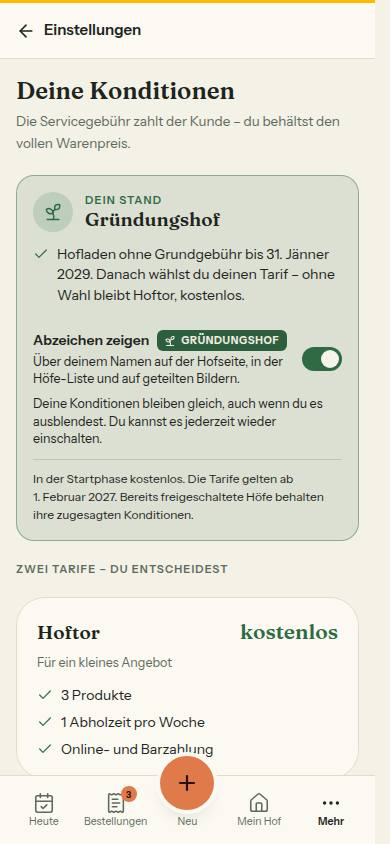
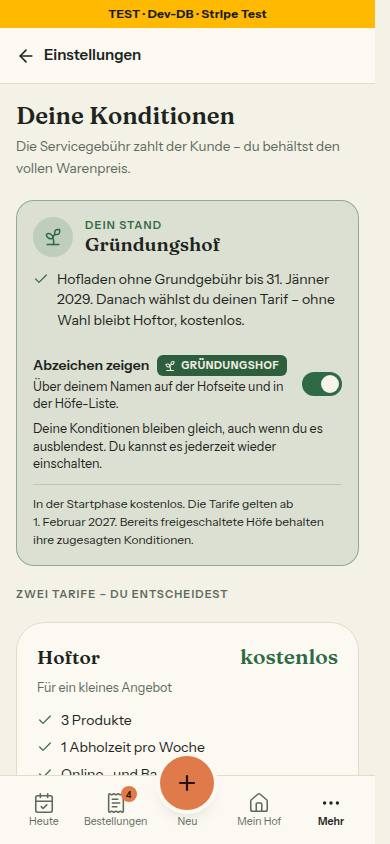
fix: Nr. 116 Runde 1 – Plätze der Einstellung an jeder Zeile, Schalter-Satz ohne Teilen-Bild
Vor dem Festschreiben lassen sich die Plätze schon erhöhen. Die Lader der
Platzvergabe schreiben sie jetzt an jede Zeile (wie gruendungFest), damit
Gründungs-Nachricht, Tarif-Zeile, „Dein Stand“, Admin › Höfe, Finanzen und
setzeGruendungBisAction mit derselben Zahl rechnen. Der Schalter-Satz nennt
das Teilen-Bild erst, wenn es das Etikett zeichnet (Test bindet Satz an Code).
Escape-Folge für das geschützte Leerzeichen wiederhergestellt.

Claude-Session: https://claude.ai/code/session_016mcnK6M2any3pAayV5rccV

diff --git a/src/lib/gruendungshof.ts b/src/lib/gruendungshof.ts
@@ -132,11 +132,24 @@ export type HofFuerPlatz = {
    * Reihenfolge wie vor Nr. 116.
    */
   gruendungFest?: boolean
+  /**
+   * Die Plätze der Einstellung (PlattformEinstellung.gruendungPlaetze) — von
+   * den Ladern an jede Zeile gesetzt wie `gruendungFest`. Vor dem Festschreiben
+   * lassen sich die Plätze schon erhöhen; ohne diese Zahl rechneten Tarif-Zeile,
+   * „Dein Stand“ und Admin › Höfe weiter mit 12, die Gründungs-Nachricht aber
+   * mit der Einstellung. Fehlt sie: der Standard.
+   */
+  gruendungPlaetze?: number
 }
 
 /** Gilt die festgeschriebene Vergabe? Die Lader setzen das Kennzeichen an allen Zeilen gleich. */
 export function vergabeFest(hoefe: readonly HofFuerPlatz[]): boolean {
   return hoefe.some((h) => h.gruendungFest === true)
+}
+
+/** Die Plätze der Einstellung, wie die Lader sie an die Zeilen schreiben — ohne: der Standard (MAX_GRUENDUNGSHOEFE). */
+export function plaetzeDerVergabe(hoefe: readonly HofFuerPlatz[]): number {
+  return hoefe.find((h) => h.gruendungPlaetze !== undefined)?.gruendungPlaetze ?? MAX_GRUENDUNGSHOEFE
 }
 
 /** Die Reihenfolge der Freischaltung: `approvedAt`, dann `createdAt`, dann `id` (siehe gruendungsplaetze). */
@@ -185,15 +198,15 @@ export function gruendungsplatzVon(hofId: string, hoefe: readonly HofFuerPlatz[]
   return gruendungsplaetze(hoefe).get(hofId) ?? null
 }
 
-/** true, wenn der Hof einen der Gründungsplätze belegt (Platz <= `plaetze`, Standard 12). */
-export function istGruendungshof(hofId: string, hoefe: readonly HofFuerPlatz[], plaetze: number = MAX_GRUENDUNGSHOEFE): boolean {
+/** true, wenn der Hof einen der Gründungsplätze belegt (Platz <= `plaetze`, Standard: die Plätze an den Zeilen). */
+export function istGruendungshof(hofId: string, hoefe: readonly HofFuerPlatz[], plaetze: number = plaetzeDerVergabe(hoefe)): boolean {
   const platz = gruendungsplatzVon(hofId, hoefe)
   // Festgeschrieben IST der Platz die Zusage — nie gegen eine Zahl geprüft (die Plätze wachsen nur).
   return platz !== null && (vergabeFest(hoefe) || platz <= plaetze)
 }
 
-/** Wie viele der Plätze vergeben sind — höchstens `plaetze` (Standard MAX_GRUENDUNGSHOEFE); festgeschrieben alle gespeicherten. */
-export function vergebeneGruendungsplaetze(hoefe: readonly HofFuerPlatz[], plaetze: number = MAX_GRUENDUNGSHOEFE): number {
+/** Wie viele der Plätze vergeben sind — höchstens `plaetze` (Standard: die Plätze an den Zeilen); festgeschrieben alle gespeicherten. */
+export function vergebeneGruendungsplaetze(hoefe: readonly HofFuerPlatz[], plaetze: number = plaetzeDerVergabe(hoefe)): number {
   const vergeben = gruendungsplaetze(hoefe).size
   return vergabeFest(hoefe) ? vergeben : Math.min(vergeben, plaetze)
 }
@@ -203,7 +216,7 @@ export function vergebeneGruendungsplaetze(hoefe: readonly HofFuerPlatz[], plaet
  * Für den Bestätigungsdialog. Die Plätze sind eine KONDITIONS-Grenze, keine
  * Zugangsgrenze — Freischalten bleibt in jedem Fall möglich.
  */
-export function bekaemePlatzBeiFreigabe(hoefe: readonly HofFuerPlatz[], plaetze: number = MAX_GRUENDUNGSHOEFE): boolean {
+export function bekaemePlatzBeiFreigabe(hoefe: readonly HofFuerPlatz[], plaetze: number = plaetzeDerVergabe(hoefe)): boolean {
   return vergebeneGruendungsplaetze(hoefe, plaetze) < plaetze
 }
 
@@ -213,8 +226,8 @@ export function bekaemePlatzBeiFreigabe(hoefe: readonly HofFuerPlatz[], plaetze:
 export type HofMitGruendungBis = { id: string; gruendungBis: Date | null }
 
 /**
- * Das wirksame Gründungs-Enddatum eines Hofs: mit Gründungsplatz (Platz ≤ 12)
- * sein eigenes Datum oder der Standard, ohne Platz null — dann gilt die
+ * Das wirksame Gründungs-Enddatum eines Hofs: mit Gründungsplatz (Platz ≤ den
+ * Plätzen an den Zeilen, `plaetzeDerVergabe`) sein eigenes Datum oder der Standard, ohne Platz null — dann gilt die
  * normale Regel. `hoefe` ist die Liste der Platzvergabe; steht der Hof nicht
  * darin, hat er keinen Platz.
  */
@@ -681,7 +694,7 @@ export const GRUENDUNG_TEXT = {
   registrieren: (g: GruendungSeiten, platz: number): GruendungSatzTeile => ({
     vor: 'Du wärst voraussichtlich ',
     // „Nr." und Zahl bleiben in einer Zeile (geschütztes Leerzeichen) — am Handy stand die Zahl sonst allein.
-    betont: gruendungshofLabel(platz).replace('Nr. ', 'Nr. '),
+    betont: gruendungshofLabel(platz).replace('Nr. ', 'Nr.\u00a0'),
     nach:
       g.art === 'bisher'
         ? ` – ${HOFLADEN.name} ${KOSTENLOS} bis ${gruendungTagLang(g.bisTag)}. Die Zusage kommt mit der Freischaltung.`
@@ -753,7 +766,7 @@ export const ABZEICHEN_TEXT = {
   mehrHref: '/fuer-hoefe',
   /** Konditionen und Tarif, Block „Dein Stand“. */
   schalter: 'Abzeichen zeigen',
-  schalterZeile: 'Über deinem Namen auf der Hofseite, in der Höfe-Liste und auf geteilten Bildern.',
+  schalterZeile: 'Über deinem Namen auf der Hofseite und in der Höfe-Liste.',
   schalterSatz: 'Deine Konditionen bleiben gleich, auch wenn du es ausblendest. Du kannst es jederzeit wieder einschalten.',
   fehler: 'Wir konnten das Abzeichen gerade nicht umstellen. Lade die Seite neu und versuch es noch einmal.',
 } as const

diff --git a/src/server/queries/admin.ts b/src/server/queries/admin.ts
@@ -107,7 +107,7 @@ export type AdminFarmRow = {
 /**
  * Die Einstellung der Gründungsplätze frisch aus der Zeile, nie aus dem Cache
  * (Register K2, Änderung Nr. 116) — die Lader der Platzvergabe setzen daraus
- * `gruendungFest` an jede Zeile. Ohne Zeile: die Standardwerte (nicht festgeschrieben).
+ * `gruendungFest` und `gruendungPlaetze` an jede Zeile. Ohne Zeile: die Standardwerte (nicht festgeschrieben).
  */
 export async function leseGruendungEinstellung(db: Pick<Prisma.TransactionClient, 'plattformEinstellung'>): Promise<GruendungEinstellung> {
   const zeile = await db.plattformEinstellung.findUnique({ where: { id: PLATTFORM_EINSTELLUNG_ID }, select: PLATTFORM_EINSTELLUNG_SELECT })
@@ -239,8 +239,8 @@ export async function getAdminFarms(
   ])
   const fest = einstellung.festAm !== null
 
-  // Die Platzvergabe liest das Kennzeichen an jeder Zeile (vergabeFest) — dieselbe Liste wie bisher.
-  const platzListe = farms.map((f) => ({ ...f, gruendungFest: fest }))
+  // Die Platzvergabe liest Kennzeichen und Plätze an jeder Zeile (vergabeFest, plaetzeDerVergabe) — dieselbe Liste wie bisher.
+  const platzListe = farms.map((f) => ({ ...f, gruendungFest: fest, gruendungPlaetze: einstellung.plaetze }))
   const rows = platzListe.map((f) => ({
     id: f.id,
     name: f.name,
@@ -308,7 +308,7 @@ const HOF_FUER_GRUENDUNG = {
 } satisfies Prisma.FarmSelect
 
 /** Ein Hof der Platzvergabe samt seinem Gründungs-Ende (HofFuerPlatz plus Inhaber und Spalte) und der geltenden Vergabe. */
-export type HofFuerGruendung = Prisma.FarmGetPayload<{ select: typeof HOF_FUER_GRUENDUNG }> & { gruendungFest: boolean }
+export type HofFuerGruendung = Prisma.FarmGetPayload<{ select: typeof HOF_FUER_GRUENDUNG }> & { gruendungFest: boolean; gruendungPlaetze: number }
 
 /** Der Lader braucht Höfe und die Zeile der Einstellung — im Transaktions-Client wie außerhalb. */
 type PlatzDb = Pick<Prisma.TransactionClient, 'farm' | 'plattformEinstellung'>
@@ -333,9 +333,12 @@ const IN_DER_VERGABE = { OR: [{ approvedAt: { not: null }, archivedAt: null }, {
  */
 export async function ladeHoefeFuerGruendung(db: PlatzDb = prisma): Promise<HofFuerGruendung[]> {
   // Nacheinander, nie Promise.all: In einer Transaktion läuft eine Abfrage zur Zeit (CODING_STANDARDS §4).
-  const fest = (await leseGruendungEinstellung(db)).festAm !== null
+  const einstellung = await leseGruendungEinstellung(db)
+  const fest = einstellung.festAm !== null
   const hoefe = await db.farm.findMany({ where: IN_DER_VERGABE, select: HOF_FUER_GRUENDUNG })
-  return hoefe.map((h) => ({ ...h, gruendungFest: fest }))
+  // Kennzeichen und Plätze an jeder Zeile: So rechnen Tarif-Zeile, „Dein Stand“ und
+  // die Actions mit denselben Plätzen wie die Gründungs-Nachricht (auch vor dem Festschreiben).
+  return hoefe.map((h) => ({ ...h, gruendungFest: fest, gruendungPlaetze: einstellung.plaetze }))
 }
 
 /** Ein Hof für „Zusagen festschreiben“: die Felder der Platzvergabe und der Name für die Liste. */

diff --git a/tests/gruendung-aktion.test.ts b/tests/gruendung-aktion.test.ts
@@ -11,6 +11,8 @@ import {
   GRUENDUNG_TEXT,
   abzeichenBlattAus,
   aktionLaeuft,
+  baueGruendungAnzeige,
+  bestimmeGruendungBis,
   bildeGruendungBis,
   festschreibenBrauchtPlaetze,
   festschreibenListe,
@@ -18,6 +20,7 @@ import {
   freieNummer,
   freischaltHinweis,
   gruendungsplaetze,
+  gruendungsZusageBeiFreigabe,
   istGruendungshof,
   kleinsteFreieNummer,
   seitenZahlen,
@@ -212,6 +215,34 @@ describe('festschreibenListe — einmal, nie kürzer, auch stillgelegte, ausgeno
     // Heute (Reihenfolge ohne den stillgelegten) halten a und b je einen der 2 Plätze — b verlöre ihn.
     expect(festschreibenBrauchtPlaetze(hoefe, { ...vorher, plaetze: 2 })).toBe(3)
     expect(festschreibenBrauchtPlaetze(hoefe, { ...vorher, plaetze: 3 })).toBeNull()
+  })
+})
+
+describe('vor dem Festschreiben: jede Stelle rechnet mit den Plätzen der Einstellung', () => {
+  // So liefern die Lader die Zeilen: die Plätze der Einstellung an jeder Zeile, wie `gruendungFest`.
+  const vorher: GruendungEinstellung = { ...AKTION, festAm: null }
+  const hoefe = Array.from({ length: 13 }, (_, i) => ({
+    ...fest(`h${i + 1}`, null, { gruendungFest: false, gruendungBis: null, gruendungPlaetze: vorher.plaetze }),
+    approvedAt: new Date(Date.UTC(2026, 0, 1 + i)),
+  }))
+
+  it('100 Plätze gespeichert: Hof Nr. 13 bekommt Nachricht, Konditionen und Admin-Anzeige mit demselben Ende', () => {
+    const nr13 = hoefe[12]!
+    expect(gruendungsZusageBeiFreigabe(nr13, hoefe, vorher)).toEqual({ platz: 13, bis: vorher.bis })
+    expect(istGruendungshof(nr13.id, hoefe)).toBe(true)
+    expect(bestimmeGruendungBis(nr13, hoefe)).toEqual(vorher.bis)
+    expect(baueGruendungAnzeige(nr13, hoefe)).toMatchObject({ bisTag: '2027-12-31' })
+    expect(vergebeneGruendungsplaetze(hoefe)).toBe(13)
+  })
+
+  it('Gegenprobe: Zeilen ohne die Plätze der Einstellung rechnen wie vor Nr. 116 mit 12', () => {
+    const ohne = hoefe.map((h) => {
+      const kopie: HofFuerFolgen = { ...h }
+      delete kopie.gruendungPlaetze
+      return kopie
+    })
+    expect(bestimmeGruendungBis(ohne[12]!, ohne)).toBeNull()
+    expect(vergebeneGruendungsplaetze(ohne)).toBe(12)
   })
 })
 

diff --git a/tests/abzeichen.test.ts b/tests/abzeichen.test.ts
@@ -26,6 +26,7 @@ import { prisma } from '@/lib/prisma'
 import { getPublicFarm } from '@/server/queries/farm'
 import { HofKarte, type KartenHof } from '@/components/hoefe/entdecken-teile'
 import { Abzeichen, AbzeichenKnopf } from '@/components/ui/abzeichen'
+import { ABZEICHEN_TEXT } from '@/lib/gruendungshof'
 
 const ZEILE = {
   id: 'hof_1',
@@ -141,5 +142,15 @@ describe('Abzeichen in der Höfe-Liste und auf der Hofseite', () => {
     // 26 px sichtbar + 2 × 9 px unsichtbarer Rand = 44 px Tippfläche.
     expect(html).toContain('before:-inset-y-[9px]')
     expect(html).not.toMatch(/Nr\.\s?\d/)
+  })
+})
+
+describe('Schalter „Abzeichen zeigen“ — der Satz nennt nur Orte, an denen das Etikett wirklich steht', () => {
+  it('„geteilte Bilder“ nur, wenn das Teilen-Bild das Etikett zeichnet (Register K2)', () => {
+    const teilenBild = ['src/app/(public)/[farmSlug]/opengraph-image/route.tsx', 'src/components/teilen/teilen-bild-grafik.tsx', 'src/lib/teilen-bild.ts', 'src/server/queries/teilen-bild.ts']
+      .map((datei) => readFileSync(join(process.cwd(), datei), 'utf8'))
+      .join('\n')
+    const zeichnetEtikett = /gruendungshof|Abzeichen/.test(teilenBild)
+    expect(/geteilt|Teilen/i.test(ABZEICHEN_TEXT.schalterZeile)).toBe(zeichnetEtikett)
   })
 })

diff --git a/tests/gruendung-bis-lader.test.ts b/tests/gruendung-bis-lader.test.ts
@@ -56,6 +56,21 @@ describe('ladeGruendungBis', () => {
     expect(await ladeGruendungBis({ ownerId: 'nutzer_wartet' })).toBeNull()
   })
 
+  it('vor dem Festschreiben mit mehr als 12 Plätzen (Nr. 116): Platz 13 hat das Standard-Ende, wie in der Gründungs-Nachricht', async () => {
+    db.plattformEinstellung.findUnique.mockResolvedValueOnce({
+      gruendungPlaetze: 100,
+      gruendungBisStandard: GRUENDUNG_BIS_STANDARD,
+      gruendungAnzeige: true,
+      gruendungMonate: 24,
+      gruendungAktionBis: null,
+      gruendungFestAm: null,
+      geaendertVonUserId: null,
+      updatedAt: new Date('2026-10-19T08:00:00.000Z'),
+    } as never)
+    db.farm.findMany.mockResolvedValue(hoefe(13))
+    expect(await ladeGruendungBis({ id: 'hof_13' })).toEqual(GRUENDUNG_BIS_STANDARD)
+  })
+
   it('eine schmale Abfrage: nur freigeschaltete, nicht stillgelegte Höfe, ohne Namen und E-Mail', async () => {
     db.farm.findMany.mockResolvedValue([])
     await ladeGruendungBis({ id: 'hof_1' })

diff --git a/docs/ai/ARCHITECTURE.md b/docs/ai/ARCHITECTURE.md
@@ -298,7 +298,7 @@ Diese Regeln sind fachlich, nicht technisch. Verletzung kostet Geld oder Vertrau
 - **Aufbewahrung und Bilder ohne Verwendung (Register N18, seit Nr. 104).** Gelöscht werden Zeilen nur im Ablauf „Aufräumen“ (`raeumeAltesAuf`, `src/server/aufraeumen.ts`, aufgerufen aus `cleanup-reservations` in eigenem `try`): genau vier Tabellen, je EIN `deleteMany` mit fester Grenze aus `aufraeumGrenzen` (`src/lib/betrieb.ts`: `SITZUNGEN_NACH_ABLAUF_TAGE` 7, `CODES_NACH_ABLAUF_TAGE` 1, `WEBHOOK_EREIGNISSE_AUFBEWAHREN_TAGE` 30 ohne `MELDE_VERMERK_TYP`, `MESSUNGEN_AUFBEWAHREN_TAGE` 400) — eine gültige Sitzung nie, Bestellungen, Konten und Höfe nie, keine Rohabfrage (`tests/aufraeumen.test.ts`). Eine neue Aufbewahrungsregel kommt als Konstante dorthin, in `aufraeumGrenzen`, in die Spalte „Bleibt“ (`tabellenBleibt`) und in die Wache. **Bilder ohne Verwendung** zählt nur die Messung in der Produktion aus derselben Auflistung (`ohneVerwendungMesswerte`, `src/server/betrieb-bilder.ts`): eine Abfrage je Bild-Feld, nur die Adresse, verglichen als Pfad (`pfadAusAdresse`); wer ein neues Bild-Feld anlegt, nimmt es in `ladeBildVerwendung` auf — sonst stünden seine Bilder in der Liste. Gruppe aus dem Pfad (`ordneBildEin`), unbekannter Hof und Startseite getrennt, älter als `BILDER_OHNE_VERWENDUNG_AB_TAGE`. In `aufraeumen.ts` und `betrieb-bilder.ts` steht kein `del(` — Bilder löscht nur die Upload-Route (Original), die Galerie und der Wochenlauf.
 - **Das Gründungs-Ende (Register K2, seit Nr. 62)** steht je Hof in `Farm.gruendungBis` (DATE, null = Standard `GRUENDUNG_BIS_STANDARD_TAG` in `src/lib/gruendungshof.ts`). Wirksam ist es nur über `bestimmeGruendungBis` (Platz ≤ 12 ? Spalte ?? Standard : null); gelesen wird es nur über `ladeGruendungBis` (EINE schmale Abfrage `ladeHoefeFuerGruendung`: freigeschaltete, nicht stillgelegte Höfe, ohne Namen und E-Mail — nie über `getAdminFarms`), die Admin-Liste rechnet es aus ihrer eigenen Hofliste (`baueGruendungAnzeige`). Eine DATE-Spalte kommt als UTC-Mitternacht: verglichen wird nur der Wiener Kalendertag, geschrieben über `bildeGruendungBis`. Geschrieben wird nur in `setzeGruendungBisAction`: nicht vor dem heutigen Wiener Tag, ein früheres Ende als das bisher wirksame (auch das Zurücksetzen auf einen früheren Standard) nur mit `bestaetigt` (K1, `verkuerztGruendung`), bedingt auf den gelesenen Stand (`updateMany` mit der alten Spalte). Wer den Standard ändert, schreibt vorher bestehende Zusagen je Hof fest (Migration mit Freigabe) — `tests/gruendungshof.test.ts` hält den Tag fest. `MAX_GRUENDUNGSHOEFE` und `GRUENDUNG_BIS_STANDARD` sind nur der Standard dieser Einstellung: `tests/gruendung-konstanten-wache.test.ts` lässt sie außerhalb von `gruendungshof.ts` und `plattform-einstellung.ts` nur mit Grund zu.
 - **Ausgenommene Höfe und die Sperre der Gründungsplätze (Register K2, Ergänzung 16.10.2026, seit Nr. 109).** `Farm.gruendungAusgenommen` (Default false) nimmt einen freigeschalteten Hof aus der Vergabe; `gruendungsplaetze` lässt ihn weg wie einen stillgelegten. Das Feld ist Pflicht in `HofFuerPlatz`; jede Hofliste der Vergabe kommt aus `HOF_FUER_GRUENDUNG` (über `ladeHoefeFuerGruendung`) oder dem Select von `getAdminFarms` — keine dritte Abfrage, keine zweite Zählung (Wache `tests/gruendung-ausgenommen-wache.test.ts`). Geschrieben wird nur in `nimmAusGruendung`/`nimmWiederAuf` (`src/server/actions/gruendung.ts`: Admin-Wache, Zod `src/schemas/gruendung.ts`, bedingtes `updateMany` auf den alten Wert der Spalte, dazu `gruendungGeaendertAm`/`-VonUserId`): Ausnehmen eines Hofs mit Platz nur mit `bestaetigt` (K1), Wiederaufnehmen nur bei `wiederAufnahmeMoeglich` (danach höchstens `gruendungPlaetze` der Einstellung im Rennen, nie die feste 12). Was die Bestätigung zeigt, rechnet `folgenDerAenderung` mit derselben Regel. **Wer Plätze vergibt oder Höfe ins Rennen bringt, nimmt die Sperre:** in `prisma.$transaction(async (tx) => …)` zuerst ``tx.$executeRaw`SELECT pg_advisory_xact_lock(${GRUENDUNGSPLAETZE_SPERRE})` `` (Kennung an EINER Stelle in `gruendungshof.ts`; `$executeRaw`, weil die Funktion `void` liefert), danach die Höfe mit `ladeHoefeFuerGruendung(tx)` lesen und bedingt schreiben — so `approveFarmAction` (bedingtes Freischalten, Zeitpunkt nach der Sperre, Platz und Zusage in derselben Transaktion; Nachricht und Mail danach) und beide Actions oben. Einen Platz freigeben (Zurücknehmen, Stilllegen, Ausnehmen ohne Platz) braucht keine Sperre — dabei verliert niemand eine Zusage. Admin › Höfe liest die Zahl der Plätze seit Nr. 109 aus der Einstellung; das wirksame Ende in der Spalte rechnet weiter `bestimmeGruendungBis` (die Sperre der Einstellungen hält beide bei 12).
-- **Festgeschriebene Gründungsplätze und die Aktion „100 Gründungshöfe“ (Register K2, Änderung 19.10.2026, seit Nr. 116).** Platz und Ende stehen je Hof in `Farm.gruendungPlatz` (eindeutig) und `Farm.gruendungBis`; `PlattformEinstellung.gruendungFestAm` sagt, ob festgeschrieben ist. Vorher gilt alles oben unverändert (Reihenfolge, bisheriges Ende). Welche Vergabe gilt, steht an jeder Zeile der Platzvergabe (`gruendungFest`, gesetzt von `ladeHoefeFuerGruendung` und `getAdminFarms` aus der Zeile der Einstellung) — so rechnen auch Aufrufer ohne die Einstellung (Admin › Höfe, Finanzen) richtig; `gruendungsplaetze`, `istGruendungshof`, `vergebeneGruendungsplaetze`, `folgenDerAenderung` lesen dann den gespeicherten Platz. Die Lader liefern dafür auch stillgelegte und zurückgenommene Höfe mit Platz (sie halten ihn); wer „freigeschaltet und nicht stillgelegt“ meint, prüft das am Hof selbst. Platz und Ende werden nur in vier Wegen geschrieben, alle unter `GRUENDUNGSPLAETZE_SPERRE` mit Einstellung und Höfen NACH der Sperre gelesen: „Zusagen festschreiben“ (`schreibeZusagenFest`, einmal: `gruendungFestAm` bedingt setzen, dann je Hof aus `festschreibenListe` — auch stillgelegte, nie kürzer), Freischalten (`zusageBeiFreischaltung`: vorhandener Platz bleibt, sonst kleinste freie Nummer und `zusageEnde` ab heute, solange `aktionLaeuft`), Ausnehmen (Platz frei) und Wiederaufnahme (wie Freischalten). Auch `reactivateFarm` und `speichereGruendungEinstellung` nehmen die Sperre; Stilllegen und Freigabe entziehen ändern keinen Platz (Wache `tests/gruendung-sperre-wache.test.ts`). Der eindeutige Index fängt den Rest: P2002 → fester Satz, die Transaktion rollt ganz zurück. Der Schalter `gruendungAnzeige` steuert nur die Sätze (`zeigen`), nie die Vergabe. Öffentliche Abfragen geben nur `gruendungshof` (Ja/Nein, `zeigtAbzeichen`) und den Monat der Freischaltung weiter, nie die Nummer (`ABZEICHEN_SELECT` in `src/server/queries/farm.ts`, Test `tests/abzeichen.test.ts`); nach dem Schalter „Abzeichen zeigen“, dem Festschreiben und jeder Platzänderung `updateTag(HOEFE_CACHE_TAG)` (Höfe-Liste und Startseite hängen am selben Eintrag).
+- **Festgeschriebene Gründungsplätze und die Aktion „100 Gründungshöfe“ (Register K2, Änderung 19.10.2026, seit Nr. 116).** Platz und Ende stehen je Hof in `Farm.gruendungPlatz` (eindeutig) und `Farm.gruendungBis`; `PlattformEinstellung.gruendungFestAm` sagt, ob festgeschrieben ist. Vorher gilt alles oben unverändert (Reihenfolge, bisheriges Ende). Welche Vergabe gilt und wie viele Plätze es gibt, steht an jeder Zeile der Platzvergabe (`gruendungFest`, `gruendungPlaetze`, gesetzt von `ladeHoefeFuerGruendung` und `getAdminFarms` aus der Zeile der Einstellung) — so rechnen auch Aufrufer ohne die Einstellung (Admin › Höfe, Finanzen, Tarif-Zeile) mit denselben Plätzen wie die Gründungs-Nachricht, auch wenn die Plätze vor dem Festschreiben erhöht wurden; `gruendungsplaetze`, `istGruendungshof`, `vergebeneGruendungsplaetze`, `folgenDerAenderung` lesen dann den gespeicherten Platz. Die Lader liefern dafür auch stillgelegte und zurückgenommene Höfe mit Platz (sie halten ihn); wer „freigeschaltet und nicht stillgelegt“ meint, prüft das am Hof selbst. Platz und Ende werden nur in vier Wegen geschrieben, alle unter `GRUENDUNGSPLAETZE_SPERRE` mit Einstellung und Höfen NACH der Sperre gelesen: „Zusagen festschreiben“ (`schreibeZusagenFest`, einmal: `gruendungFestAm` bedingt setzen, dann je Hof aus `festschreibenListe` — auch stillgelegte, nie kürzer), Freischalten (`zusageBeiFreischaltung`: vorhandener Platz bleibt, sonst kleinste freie Nummer und `zusageEnde` ab heute, solange `aktionLaeuft`), Ausnehmen (Platz frei) und Wiederaufnahme (wie Freischalten). Auch `reactivateFarm` und `speichereGruendungEinstellung` nehmen die Sperre; Stilllegen und Freigabe entziehen ändern keinen Platz (Wache `tests/gruendung-sperre-wache.test.ts`). Der eindeutige Index fängt den Rest: P2002 → fester Satz, die Transaktion rollt ganz zurück. Der Schalter `gruendungAnzeige` steuert nur die Sätze (`zeigen`), nie die Vergabe. Öffentliche Abfragen geben nur `gruendungshof` (Ja/Nein, `zeigtAbzeichen`) und den Monat der Freischaltung weiter, nie die Nummer (`ABZEICHEN_SELECT` in `src/server/queries/farm.ts`, Test `tests/abzeichen.test.ts`); nach dem Schalter „Abzeichen zeigen“, dem Festschreiben und jeder Platzänderung `updateTag(HOEFE_CACHE_TAG)` (Höfe-Liste und Startseite hängen am selben Eintrag).
 - **Plattform-Einstellungen (Register K2-Ergänzung und N15, seit Nr. 93)** stehen in EINER Zeile `PlattformEinstellung` (Kennung `plattform`, angelegt von der Migration): Plätze gesamt, Standard-Ende (DATE), Anzeige an/aus, dazu wer zuletzt gespeichert hat; `zustellRegeln` gehört Nr. 95. Gelesen wird nur — fehlt die Zeile, gelten `PLATTFORM_EINSTELLUNG_STANDARD` (= die Konstanten aus `gruendungshof.ts`); kein Lesepfad schreibt (kein upsert beim Lesen). Öffentliche Seiten lesen über `ladePlattformEinstellung` (`unstable_cache`, Etikett `plattform-einstellung`, Form nur JSON: Kalendertag statt Date, der Eintrag entsteht erst beim Aufruf), Admin › Einstellungen und die Freischaltung frisch über `lesePlattformEinstellung` (`src/server/queries/plattform-einstellung.ts`). Geschrieben wird nur in `speichereGruendungEinstellung` (`src/server/actions/plattform-einstellung.ts`: Admin-Wache, Zod strikt, `pruefeGruendungEingabe` — nie weniger Plätze als vergeben, nie ein Ende vor dem heutigen Wiener Tag —, danach `pruefeGruendungSperre`, upsert nur der Felder der Gruppe, danach `updateTag` und `revalidatePath` für `/`, `/fuer-hoefe`, `/register`, `/admin/einstellungen`). Was die Seiten zeigen, rechnet `gruendungSeitenDaten` aus Einstellung, Platzvergabe und Warteliste; die Seiten holen es über `gruendungFuerSeiten()` (fängt Ladefehler, dann zeigt die Seite nichts davon). Die Aufrufer von vor Nr. 93 (Admin-Liste, Freischalt-Dialog, `ladeGruendungBis`, `setzeGruendungBisAction`) rechnen bis zur Nacharbeit weiter mit den Konstanten (Parameter mit Standard `MAX_GRUENDUNGSHOEFE`); deshalb lehnt `pruefeGruendungSperre` bis dahin jede Abweichung der Plätze von `MAX_GRUENDUNGSHOEFE` und des Standard-Endes von `GRUENDUNG_BIS_STANDARD_TAG` ab — eine Zusage mit Geldwert hat nie zwei Quellen. Wer die Aufrufer umstellt, schreibt vorher bestehende Zusagen fest (oben) und nimmt erst dann die Sperre heraus.
 - **Eine Expand-Migration ist nur hinzufügend und wiederholbar.** Neue Spalten an bestehenden Tabellen sind nullable oder haben einen Default (`ADD COLUMN IF NOT EXISTS … DEFAULT …`), dazu `SET lock_timeout`; kein `DROP`, `RENAME`, `ALTER TYPE`, `ALTER COLUMN`, kein `UPDATE` auf Bestandszeilen. Erzeugt wird sie mit `prisma migrate diff` gegen das Schema von `main` (Regel 3 in `docs/nachtlauf.md`), geprüft mit `pnpm test:integration`. Jede solche Migration bekommt eine Datei-Wache (Muster: `tests/schema-expand.test.ts`, `tests/migration-teilen-momente.test.ts` — Anweisungen ohne Kommentare gegen eine Verbotsliste, mit Gegenprobe) und einen Integrationstest, der Default, Deploy-Fenster (rohes INSERT ohne die Spalte) und einen zweiten Lauf auf einem bestehenden Hof prüft (`tests/integration/teilen-momente.int.test.ts`; eine nullable Spalte ohne Default prüft statt des Defaults, dass null als Standard wirkt: `tests/integration/gruendung-bis.int.test.ts`). Ein Schalter mit Default `false` wird so benannt, dass der Default den bisherigen Zustand bedeutet (`Farm.teilenMomenteAus`: false = Momente an wie bisher).
 

diff --git a/DEVELOPMENT.md b/DEVELOPMENT.md
@@ -5371,7 +5371,7 @@ Ausgangslage (Vercel Observability, 24 Stunden bis zum 19.10.2026): /hoefe hatte
 
 ### Nachtlauf 17, Nr. 116 — Aktion „100 Gründungshöfe“ und Abzeichen (19.10.2026)
 
-Register K2 geändert: Platz und Ende stehen je Hof fest (`Farm.gruendungPlatz`, eindeutig; `gruendungBis`), einmal für alle über Admin › Einstellungen › „Zusagen festschreiben …“, danach mit jeder Freischaltung (kleinste freie Nummer, Ende = Tag vor Beginn + Monate, Beginn = später von Tarifstart und Freischaltung). Bis zum Festschreiben (`PlattformEinstellung.gruendungFestAm`) läuft alles wie vorher — der Deploy ändert nichts Sichtbares. Festschreiben gibt auch stillgelegten freigeschalteten Höfen einen Platz (sonst verlören sie ihn beim Wieder-Aktivieren für immer) und schreibt nie ein kürzeres Ende; ausgenommene bekommen keinen. Danach verschiebt Stilllegen, Wieder-Aktivieren oder Freigabe entziehen keine Nummer mehr — die Lage aus Morgenbericht 16 (ein nachgerückter Hof verliert still seine Zusage) kann nicht mehr entstehen. Freischalten verlangt neben E-Mail und Stripe ein Produkt im Shop. Die Aktion läuft, solange festgeschrieben, vor dem Stichtag „Aktion bis“ (nur vorziehen) und mit freien Plätzen; die Monate lassen sich nur erhöhen. Der Zähler „Noch n von m“ erscheint erst ab 10 vergebenen Plätzen. Der Wert der Zusage = Monate × Grundgebühr Hofladen in Cent (24 × € 19 = € 456). Das Abzeichen trägt jeder Hof mit festgeschriebenem Platz, nicht ausgenommen, freigeschaltet; der Hof blendet es unter Konditionen und Tarif aus. Nicht gebaut: Etikett im Teilen-Bild (Grafik liegt außerhalb der Dateigrenzen) und die Heute-Karte „Baustein 5“ (gibt es im Code nicht) — siehe Bericht 116.
+Register K2 geändert: Platz und Ende stehen je Hof fest (`Farm.gruendungPlatz`, eindeutig; `gruendungBis`), einmal für alle über Admin › Einstellungen › „Zusagen festschreiben …“, danach mit jeder Freischaltung (kleinste freie Nummer, Ende = Tag vor Beginn + Monate, Beginn = später von Tarifstart und Freischaltung). Bis zum Festschreiben (`PlattformEinstellung.gruendungFestAm`) läuft alles wie vorher — der Deploy ändert nichts Sichtbares. Festschreiben gibt auch stillgelegten freigeschalteten Höfen einen Platz (sonst verlören sie ihn beim Wieder-Aktivieren für immer) und schreibt nie ein kürzeres Ende; ausgenommene bekommen keinen. Danach verschiebt Stilllegen, Wieder-Aktivieren oder Freigabe entziehen keine Nummer mehr — die Lage aus Morgenbericht 16 (ein nachgerückter Hof verliert still seine Zusage) kann nicht mehr entstehen. Freischalten verlangt neben E-Mail und Stripe ein Produkt im Shop. Die Aktion läuft, solange festgeschrieben, vor dem Stichtag „Aktion bis“ (nur vorziehen) und mit freien Plätzen; die Monate lassen sich nur erhöhen. Der Zähler „Noch n von m“ erscheint erst ab 10 vergebenen Plätzen. Der Wert der Zusage = Monate × Grundgebühr Hofladen in Cent (24 × € 19 = € 456). Das Abzeichen trägt jeder Hof mit festgeschriebenem Platz, nicht ausgenommen, freigeschaltet; der Hof blendet es unter Konditionen und Tarif aus. Nicht gebaut: Etikett im Teilen-Bild (Grafik liegt außerhalb der Dateigrenzen) und die Heute-Karte „Baustein 5“ (gibt es im Code nicht) — siehe Bericht 116. Nachbesserung Runde 1: Die Plätze lassen sich schon vor dem Festschreiben erhöhen; damit Gründungs-Nachricht, Tarif-Zeile, „Dein Stand“ und Admin › Höfe dieselbe Zahl nehmen, schreiben die Lader die Plätze der Einstellung an jede Zeile der Platzvergabe (`gruendungPlaetze`, wie `gruendungFest`). Der Schalter-Satz nennt das Teilen-Bild erst, wenn es das Etikett zeichnet (Test in tests/abzeichen.test.ts).
 
 ## Nützliche Befehle
 

diff --git a/docs/nachtlauf/berichte/116.md b/docs/nachtlauf/berichte/116.md
@@ -26,6 +26,14 @@
 
 **Bilder** (hell): ![Admin](bilder/116/admin-einstellungen-gruendung-1440-hell.jpg) ![Blatt](bilder/116/hofseite-blatt-390-hell.jpg) ![Sprechblase](bilder/116/hofseite-sprechblase-1440-hell.jpg) ![Liste 390](bilder/116/hoefe-liste-390-hell.jpg) ![Liste 1440](bilder/116/hoefe-liste-1440-hell.jpg) ![Schalter](bilder/116/konditionen-schalter-390-hell.jpg) ![Startseite](bilder/116/startseite-satz-1440-hell.jpg) ![Für Höfe](bilder/116/fuer-hoefe-1440-hell.jpg). Abweichungen vom Mockup: kein „Du hast selbst einen Hof?“ im Blatt (unter 10 vergeben, Regel des Zählers); Schalter ohne „Gründungshof Nr. 5“ im Titel (Dein Stand bleibt „wie heute“).
 
+## Nachbesserung Runde 1
+**Blocker 1 (Plätze vor dem Festschreiben):** Die Lader (`ladeHoefeFuerGruendung`, `getAdminFarms`) schreiben die Plätze der Einstellung an jede Zeile (`gruendungPlaetze`, wie `gruendungFest`); `istGruendungshof`, `vergebeneGruendungsplaetze`, `bekaemePlatzBeiFreigabe` und damit `bestimmeGruendungBis`/`baueGruendungAnzeige` nehmen sie als Standard (`plaetzeDerVergabe`). So rechnen Nachricht, Tarif-Zeile, „Dein Stand“, Admin › Höfe, Finanzen und `setzeGruendungBisAction` mit derselben Zahl, ohne dass `admin.ts` sich ändert. Tests rot → grün: tests/gruendung-aktion.test.ts (Hof Nr. 13 bei 100 Plätzen, mit Gegenprobe ohne Plätze an der Zeile = 12), tests/gruendung-bis-lader.test.ts (`ladeGruendungBis` mit Einstellung 100 Plätze).
+**Blocker 2 (Teilen-Bild):** Bis zur Grenzerweiterung steht „auf geteilten Bildern“ nicht mehr im Schalter-Satz; ein Test (tests/abzeichen.test.ts) bindet den Satz an den Code: „geteilt“ steht genau dann darin, wenn Route, Grafik oder Lader des Teilen-Bilds das Etikett kennen. **Grenzerweiterung erbeten:** src/components/teilen/teilen-bild-grafik.tsx, src/lib/teilen-bild.ts, src/server/queries/teilen-bild.ts — dann Etikett, Test und den Satz zurück.
+**Kann:** Escape-Folge `\u00a0` wiederhergestellt. **Eigene Dateien der Runde** (`git diff --name-only d29d74c`): DEVELOPMENT.md, docs/ai/{ARCHITECTURE,BAUSTEINE}.md, docs/nachtlauf/berichte/116.md + bilder/116/konditionen-schalter-390-hell.jpg, src/lib/gruendungshof.ts, src/server/queries/admin.ts, tests/{abzeichen,gruendung-aktion,gruendung-bis-lader}.test.ts.
+**Nacharbeit aus Runde 1:** (1) `approveFarmAction`: `updateTag(HOEFE_CACHE_TAG)` nach `revalidateAll` (Sollte; admin.ts in dieser Runde nicht angefasst — der frisch freigeschaltete Hof erscheint ohnehin erst mit dem Cache, das Etikett mit ihm). (2) `platzBeiFreischaltung` (admin-hoefe-seite.ts) bekommt die ganze Einstellung und prüft `aktionLaeuft`; Aufrufer queries/postfach.ts und src/app/admin/page.tsx (außerhalb der Grenze). (3) Prop `vergebenePlaetze` in hof-aktion-dialog.tsx mit dem Aufrufer admin/page.tsx entfernen (Sammel-PR). (4) Zahlen fürs Erklär-Blatt in hofseite-vorschau.ts cachen oder erst beim Öffnen laden.
+**Bild neu** (Schalter-Satz ohne Teilen-Bild, Abweichung vom Mockup bis zur Grenzerweiterung): ![Schalter](bilder/116/konditionen-schalter-390-hell.jpg). Axe 0 Verstöße, Schalter 309 × 57 px. Testdaten wie in Runde 0 gesetzt und zurück (`116-r1-vorher.txt` = `116-r1-nachher.txt`, 0 Höfe mit Platz).
+**Prüfung Runde 1:** typecheck grün, lint 0 Fehler/5 Warnungen (Grundstand), test 437 Dateien/8497 Tests grün, test:integration (gruendung-aktion, -bis, -freischaltung, -ausgenommen, einstellungen) 31 Tests grün.
+
 ```sql
 SET lock_timeout = '5s';
 ALTER TABLE "Farm" ADD COLUMN IF NOT EXISTS "gruendungAbzeichenZeigen" BOOLEAN NOT NULL DEFAULT true,
